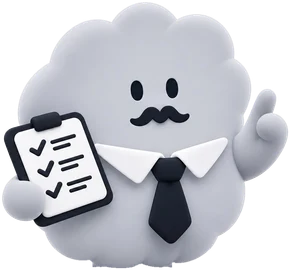
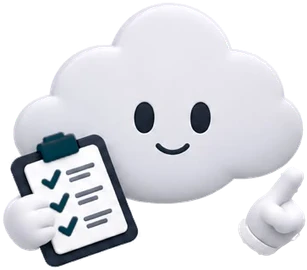
feat(assistant): new Soul look from the owner's character sheet
Smile and white gloves (clipboard + pointing hand) instead of the
mustache and tie. Clipboard clip and checkmarks recoloured to navy
#203640 (brand has no teal). Face circle uses the close-up from the
sheet. The new character is wider (307x270), so the floating button
grows 3px in width (51x45 mobile, 57x50 desktop) at the same height.
Attention marks re-measured from the sheet. No DB or text changes.

diff --git a/src/components/AIAssistant.tsx b/src/components/AIAssistant.tsx
@@ -464,7 +464,7 @@ export default function AIAssistant() {
   const onExtraDone = (key: string) => { setTimeout(()=>setDecisions(p=>p.filter(d=>d.key!==key)), 1500) }
   const dragRef = useRef<{ sx:number; sy:number; ox:number; oy:number; moved:boolean }|null>(null)
   const fabLimits = () => {
-    const mobile = window.innerWidth < 768, size = mobile ? 48 : 54   // زر الشخصية: 48×45 بالجوال و54×50 بالكمبيوتر (نحسب بالأكبر) — صغّرناه بطلب المالك 2026-11-18
+    const mobile = window.innerWidth < 768, size = mobile ? 51 : 57   // زر الشخصية: 51×45 بالجوال و57×50 بالكمبيوتر (نحسب بالأكبر) — بنفس ارتفاع التصغير 2026-11-18، والعرض حسب نسبة الشكل الجديد
     return { size, edge: mobile ? 14 : 24, minBottom: mobile ? 76 : 16, maxBottom: window.innerHeight - size - (mobile ? 72 : 80) }
   }
   const onFabDown = (e: React.PointerEvent<HTMLButtonElement>) => {
@@ -506,7 +506,7 @@ export default function AIAssistant() {
         @keyframes spin{to{transform:rotate(360deg)}}
         .ai-fab{display:flex;transition:transform .15s}
         /* على الكمبيوتر: النافذة بالزاوية السفلية بجهة زر المساعد (الزر مكانه يحدده العميل بالسحب) */
-        @media(min-width:768px){.ai-fab{width:54px!important;height:50px!important}.ai-win{bottom:86px!important;left:24px!important;right:auto!important;width:400px;margin:0!important}.ai-win.ai-win-r{left:auto!important;right:24px!important}}
+        @media(min-width:768px){.ai-fab{width:57px!important;height:50px!important}.ai-win{bottom:86px!important;left:24px!important;right:auto!important;width:400px;margin:0!important}.ai-win.ai-win-r{left:auto!important;right:24px!important}}
         .ai-fab .ai-m{width:100%!important;height:100%!important}
         .ai-fab:hover{transform:translateY(-2px)}
         .ai-fab:active{transform:scale(.96)}
@@ -539,7 +539,7 @@ export default function AIAssistant() {
       {!open && mounted && (
         <button className="ai-fab" onPointerDown={onFabDown} onPointerMove={onFabMove} onPointerUp={onFabUp} onPointerCancel={()=>{ dragRef.current=null; setDrag(null) }}
           onKeyDown={e=>{ if(e.key==='Enter'||e.key===' ') { e.preventDefault(); setOpen(true) } }}
-          aria-label={pendingCount ? `Soul، لديك ${qarar(pendingCount)} ${waits(pendingCount)}` : urgentSug ? `Soul — ${urgentSug.label}` : 'Soul، مساعدك الذكي'} title={pendingCount ? `Soul: ${qarar(pendingCount)} ${waits(pendingCount)}` : urgentSug ? `Soul: ${urgentSug.label}` : 'Soul — اسحبه لتغيير مكانه'} style={{position:'fixed',...fabStyle(),touchAction:'none',userSelect:'none' as const,zIndex:999,width:48,height:45,padding:0,background:'transparent',border:'none',filter:'drop-shadow(0 5px 10px rgba(32,54,64,.26)) drop-shadow(0 1px 2px rgba(0,0,0,.12))',cursor:'pointer',alignItems:'center',justifyContent:'center',flexShrink:0}}>
+          aria-label={pendingCount ? `Soul، لديك ${qarar(pendingCount)} ${waits(pendingCount)}` : urgentSug ? `Soul — ${urgentSug.label}` : 'Soul، مساعدك الذكي'} title={pendingCount ? `Soul: ${qarar(pendingCount)} ${waits(pendingCount)}` : urgentSug ? `Soul: ${urgentSug.label}` : 'Soul — اسحبه لتغيير مكانه'} style={{position:'fixed',...fabStyle(),touchAction:'none',userSelect:'none' as const,zIndex:999,width:51,height:45,padding:0,background:'transparent',border:'none',filter:'drop-shadow(0 5px 10px rgba(32,54,64,.26)) drop-shadow(0 1px 2px rgba(0,0,0,.12))',cursor:'pointer',alignItems:'center',justifyContent:'center',flexShrink:0}}>
           {/* ينط بس لما يوصل قرار جديد (مو كل دخول) */}
           <AssistantMascot key={hopTick} size={45} motion={hopTick ? 'alert' : 'idle'} />
           {pendingCount > 0

diff --git a/src/components/AssistantMascot.tsx b/src/components/AssistantMascot.tsx
@@ -1,19 +1,21 @@
-// شخصية المساعد «Soul» (اختارها المالك وسمّاها 2026-11-17): غيمة رمادية بعيون وشنب وياقة وكرفتة، تمسك قائمة مهام وترفع إصبعها — بدل أيقونة الروبوت.
+// شخصية المساعد «Soul» (اختارها المالك وسمّاها 2026-11-17، وشكلها الجديد من ورقة الشخصية 2026-11-19):
+// غيمة رمادية بعيون وابتسامة وقفازات بيضاء، تمسك لوحة قرارات وتأشّر بإصبعها — بدل أيقونة الروبوت.
 // صورة ثلاثية الأبعاد بخلفية شفافة (public/assistant)، وتنعرض بثلاث هيئات:
 //   body: الشخصية كاملة (زر المساعد العائم)
-//   face: الوجه والياقة داخل دائرة (رأس الشات والإشعار)، عشان تنقرأ بالمقاسات الصغيرة
+//   face: الوجه داخل دائرة (رأس الشات والإشعار)، عشان ينقرأ بالمقاسات الصغيرة
 //   hero: الشخصية مع علامات الانتباه جنب إصبعها (أول المحادثة)؛ العلامات مرسومة بالكود فتاخذ لون النص بالوضعين الفاتح والداكن
 // الحركة (طلب المالك 2026-11-18): تتنفس بهدوء وترمش، وتنط ثلاث مرات لما يكون فيه شي عاجل.
 // الرمشة طبقة صغيرة فوق العيون (body-blink / face-blink بنفس القص بالضبط)، وكل الحركة تتوقف لمن مفعّل «تقليل الحركة».
 
-const BODY_W = 290, BODY_H = 270           // مقاس body.webp
-const HERO_W = BODY_W + 18                 // مساحة إضافية يمين الصورة للعلامات
-// علامات «!» بإحداثيات body.webp (مأخوذة من رسمة المالك نفسها)
+const BODY_W = 307, BODY_H = 270           // مقاس body.webp
+const HERO_W = BODY_W + 35                 // مساحة إضافية يمين الصورة للعلامات
+// علامات الانتباه بإحداثيات body.webp (مأخوذة من ورقة الشخصية نفسها)
 const MARKS = [
-  { x1: 269.2, y1: 70.5, x2: 273.1, y2: 55.2, w: 8.3 },
-  { x1: 281.9, y1: 76.8, x2: 293.5, y2: 65.4, w: 8.3 },
-  { x1: 288.8, y1: 88.2, x2: 302.3, y2: 84.6, w: 7.9 },
+  { x1: 282.8, y1: 49.5, x2: 291, y2: 26.8, w: 14.3 },
+  { x1: 300.1, y1: 58.5, x2: 319.6, y2: 40.4, w: 15.1 },
+  { x1: 308.1, y1: 75.1, x2: 332.4, y2: 68.5, w: 13.3 },
 ]
+const FACE_BG = '#E1E1E9'                  // لون الغيمة حول الوجه (احتياط خلف صورة الدائرة)
 
 /** ستايل الحركة — يندمج مرة وحدة في صفحة المساعد */
 export const MASCOT_CSS = `
@@ -47,7 +49,7 @@ export default function AssistantMascot({ variant = 'body', size = 40, motion = 
   const live = motion !== 'none'
 
   if (variant === 'face') return (
-    <span aria-hidden className="ai-m" style={{ width: size, height: size, borderRadius: '50%', overflow: 'hidden', background: '#C9CAD3' }}>
+    <span aria-hidden className="ai-m" style={{ width: size, height: size, borderRadius: '50%', overflow: 'hidden', background: FACE_BG }}>
       <span className="ai-m-in">
         <img src="/assistant/face.webp" width={size} height={size} alt="" draggable={false} />
         {live && <img src="/assistant/face-blink.webp" className="ai-m-blink on" width={size} height={size} alt="" draggable={false} />}
